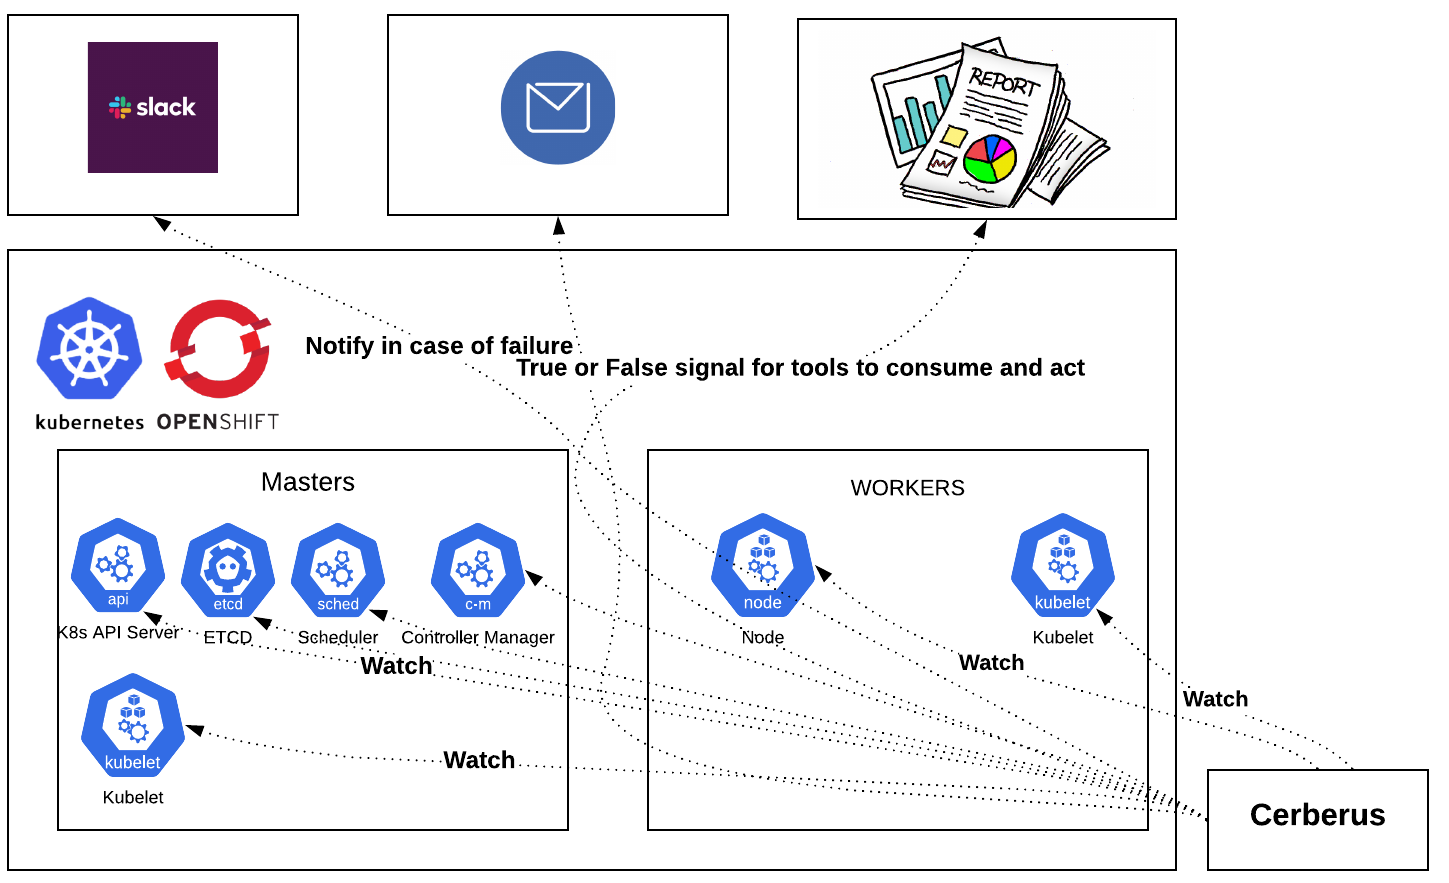
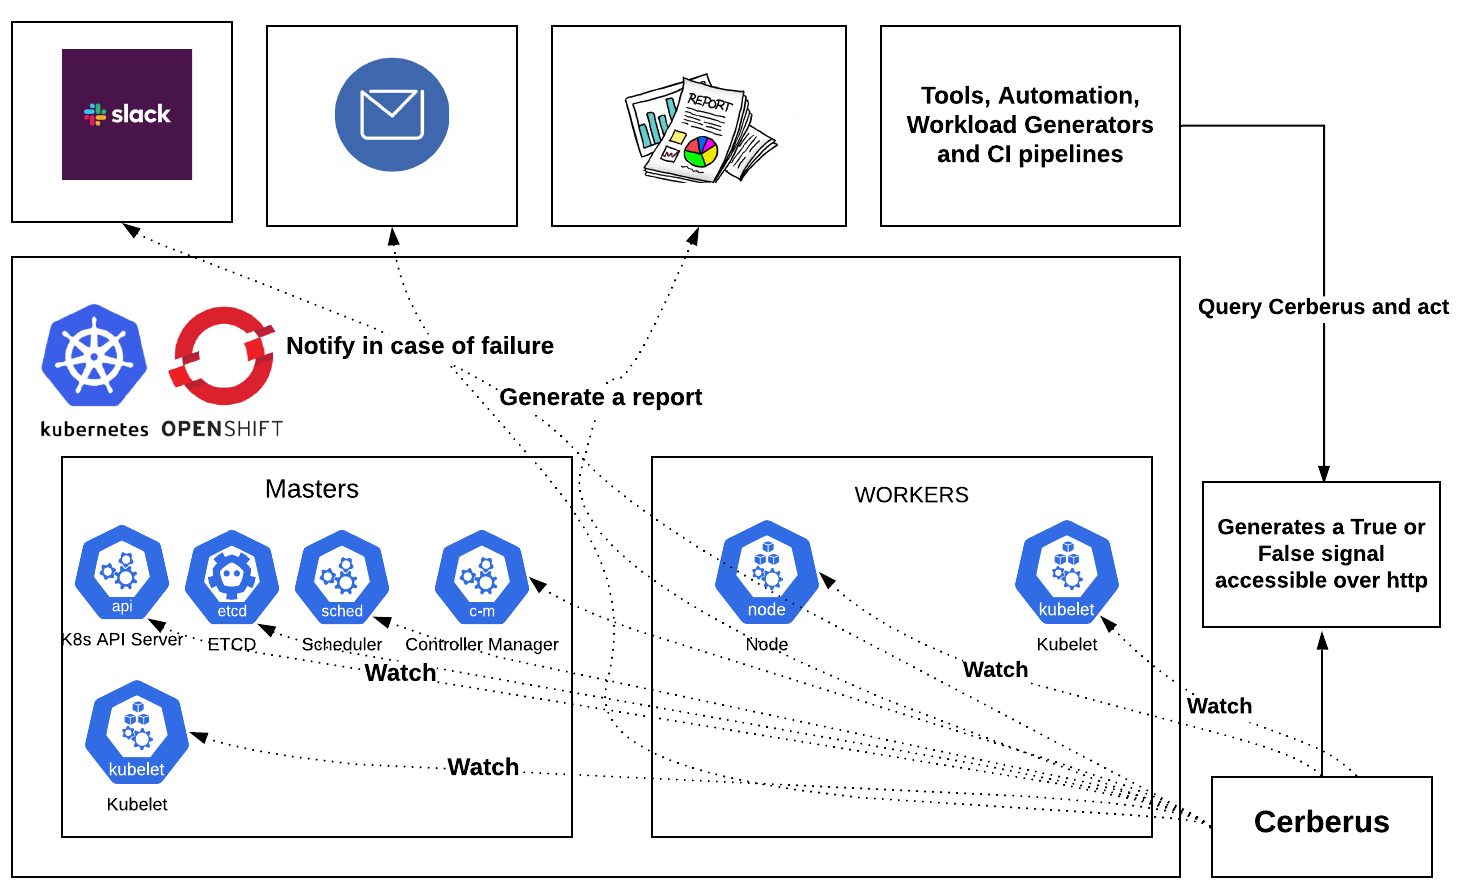
Update readme
This commit:
 - Adds a note about the current implementation of cerberus being
   able to monitor one cluster from one host, it can monitor multiple
   clusters provided multiple instances of cerberus are launched on
   different hosts.
 - It also adds a note about being able to monitor any namespace
   specified in the config and info about the components it monitors
   by default.
-  Updates the cerberus workflow/architecture diagram.

diff --git a/README.md b/README.md
@@ -41,6 +41,7 @@ tunings:
     daemon_mode: True                                    # Iterations are set to infinity which means that the cerberus will monitor the resources forever
 
 ```
+NOTE: The current implementation can monitor only one cluster from one host. It can be used to monitor multiple clusters provided multiple instances of Cerberus are launched on different hosts.
 
 #### Run
 ```
@@ -115,7 +116,7 @@ The report is generated in the run directory and it contains the information abo
 #### Go or no-go signal
 When the cerberus is configured to run in the daemon mode, it will continuosly monitor the components specified, runs a simple http server at http://0.0.0.0:8080 and publishes the signal i.e True or False depending on the components status. The tools can consume the signal and act accordingly.
 
-#### Usecase
+#### Use cases
 There can be number of usecases, here are some of them:
 - We run tools to push the limits of Kubenetes/OpenShift to look at the performance and scalability and there are number of instances where the system components or nodes starts to degrade in which case the results are no longer valid but the workload generator continues to push the cluster till it breaks. The signal published by the Cerberus can be consumed by the workload generators to act on i.e stop the workload and notify us in this case.
 
@@ -137,3 +138,5 @@ Kube Scheduler           | Watches Kube scheduler                               
 Ingress                  | Watches Routers                                                                                    | :heavy_check_mark:        |
 Openshift SDN            | Watches SDN pods                                                                                   | :heavy_check_mark:        |
 OVNKubernetes            | Watches OVN pods                                                                                   | :heavy_check_mark:        |
+
+NOTE: It supports monitoring pods in any namespaces specified in the config, the watch is enabled for system components mentioned above by default as they are critical for running the operations on Kubernetes/OpenShift clusters.
